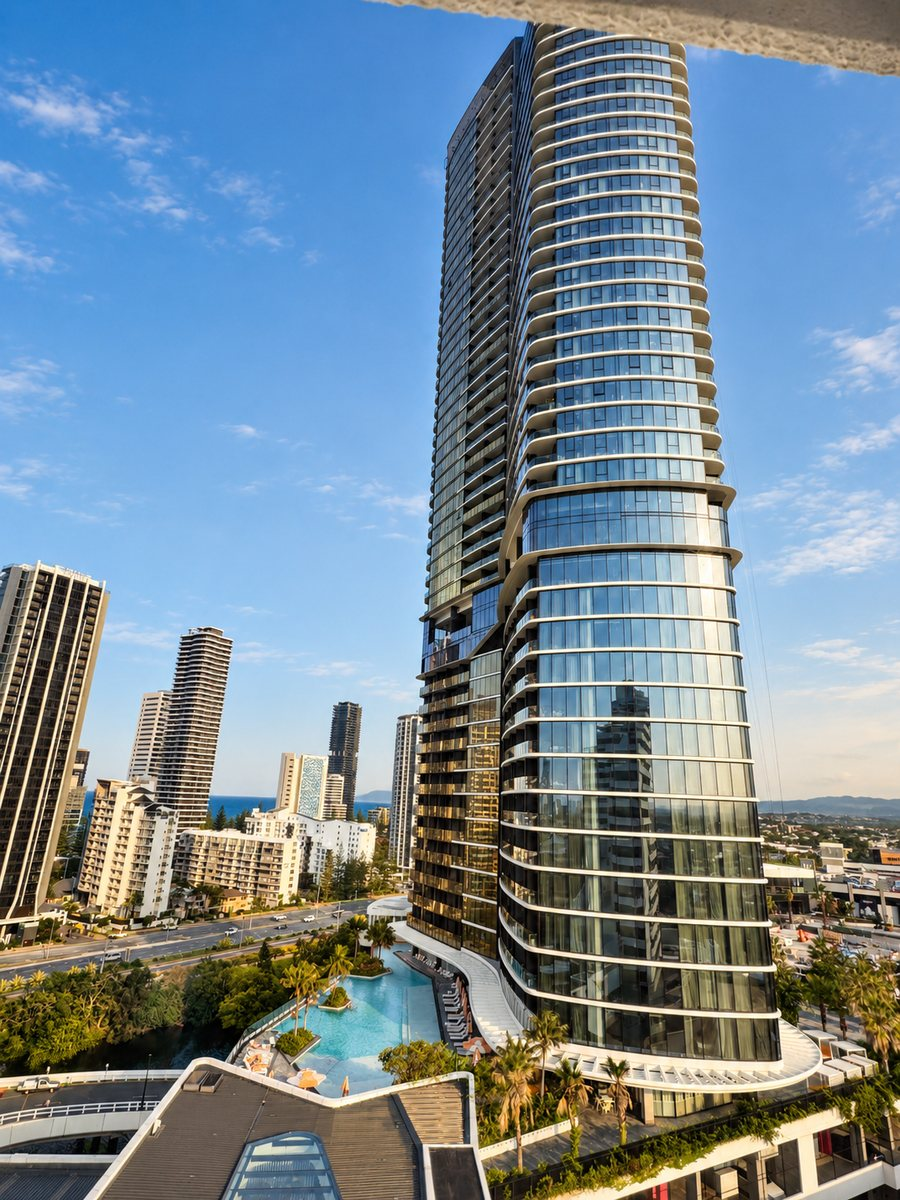
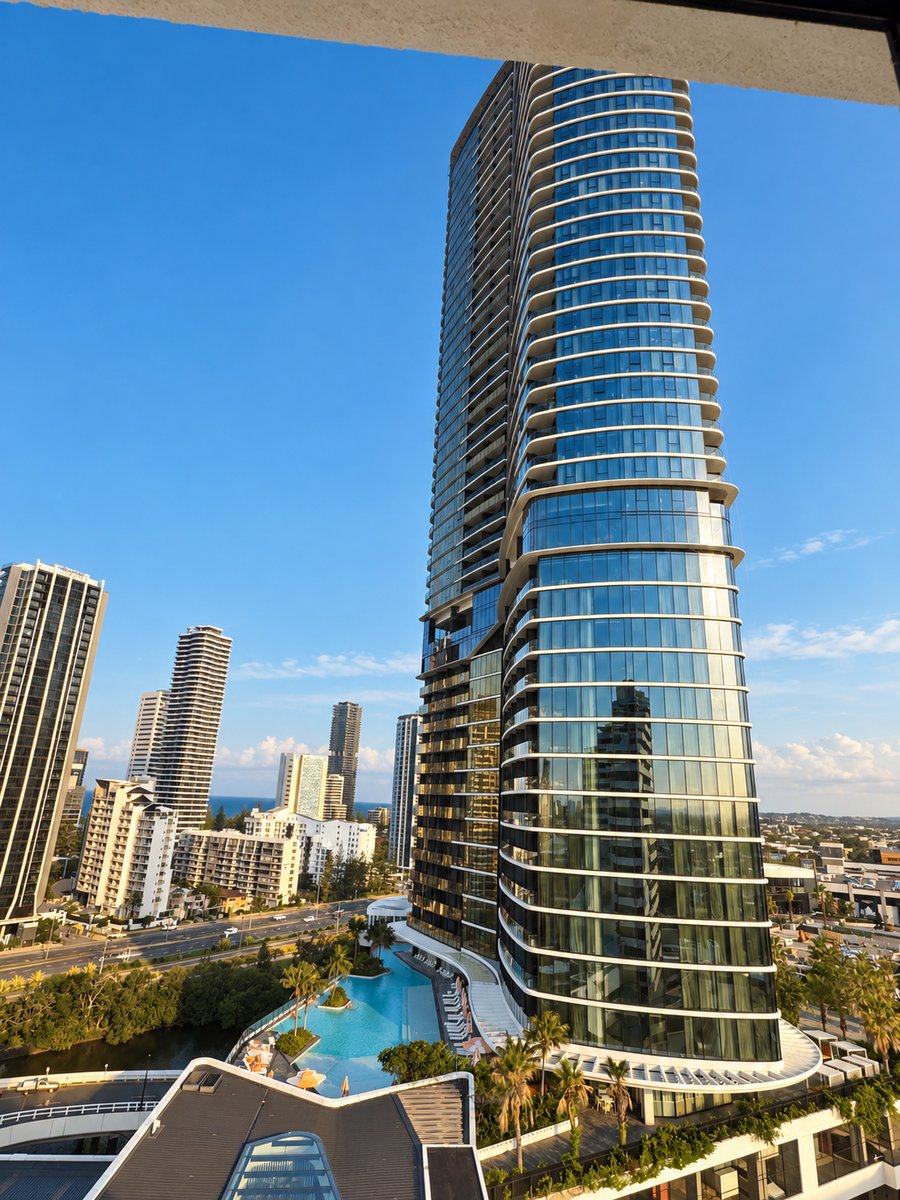
Star Gold Coast: updated photos, ballroom leads

diff --git a/venue-visits/the-star-gold-coast/index.html b/venue-visits/the-star-gold-coast/index.html
@@ -308,7 +308,7 @@
 
   <nav class="vg-crumbs" aria-label="Breadcrumb"><a href="../../index.html">Home</a><span>/</span><a href="../">Venue visits</a><span>/</span><a href="../../venue-finder-gold-coast.html">Gold Coast</a><span>/</span>The Star Gold Coast</nav>
 
-  <div class="vg-gal"><button type="button" data-lb="1" data-src="../../assets/img/venue-visits/the-star-gold-coast/3-w900.jpg" aria-label="Enlarge photograph"><img src="../../assets/img/venue-visits/the-star-gold-coast/3-w900.jpg" alt="The Star Gold Coast" width="900" height="675" loading="eager" decoding="async"></button><button type="button" data-lb="1" data-src="../../assets/img/venue-visits/the-star-gold-coast/6-w900.jpg" aria-label="Enlarge photograph"><img src="../../assets/img/venue-visits/the-star-gold-coast/6-w900.jpg" alt="The Star Gold Coast" width="900" height="675" loading="lazy" decoding="async"></button><button type="button" data-lb="1" data-src="../../assets/img/venue-visits/the-star-gold-coast/5-w900.jpg" aria-label="Open the gallery, 8 photographs"><img src="../../assets/img/venue-visits/the-star-gold-coast/5-w900.jpg" alt="The Star Gold Coast" width="900" height="1200" loading="lazy" decoding="async"><span class="vg-more"><i><svg viewBox="0 0 24 24" width="19" height="19" fill="none" stroke="currentColor" stroke-width="1.7" stroke-linecap="round" stroke-linejoin="round" aria-hidden="true"><path d="M3 8.6A1.6 1.6 0 0 1 4.6 7h2.1a1 1 0 0 0 .83-.45l.93-1.4A1 1 0 0 1 9.3 4.7h5.4a1 1 0 0 1 .84.45l.93 1.4A1 1 0 0 0 17.3 7h2.1A1.6 1.6 0 0 1 21 8.6v8.8A1.6 1.6 0 0 1 19.4 19H4.6A1.6 1.6 0 0 1 3 17.4z"/><circle cx="12" cy="12.7" r="3.5"/></svg>8</i></span></button></div>
+  <div class="vg-gal"><button type="button" data-lb="1" data-src="../../assets/img/venue-visits/the-star-gold-coast/8-w900.jpg" aria-label="Enlarge photograph"><img src="../../assets/img/venue-visits/the-star-gold-coast/8-w900.jpg" alt="The Star Gold Coast" width="900" height="675" loading="eager" decoding="async"></button><button type="button" data-lb="1" data-src="../../assets/img/venue-visits/the-star-gold-coast/6-w900.jpg" aria-label="Enlarge photograph"><img src="../../assets/img/venue-visits/the-star-gold-coast/6-w900.jpg" alt="The Star Gold Coast" width="900" height="1197" loading="lazy" decoding="async"></button><button type="button" data-lb="1" data-src="../../assets/img/venue-visits/the-star-gold-coast/5-w900.jpg" aria-label="Open the gallery, 9 photographs"><img src="../../assets/img/venue-visits/the-star-gold-coast/5-w900.jpg" alt="The Star Gold Coast" width="900" height="1200" loading="lazy" decoding="async"><span class="vg-more"><i><svg viewBox="0 0 24 24" width="19" height="19" fill="none" stroke="currentColor" stroke-width="1.7" stroke-linecap="round" stroke-linejoin="round" aria-hidden="true"><path d="M3 8.6A1.6 1.6 0 0 1 4.6 7h2.1a1 1 0 0 0 .83-.45l.93-1.4A1 1 0 0 1 9.3 4.7h5.4a1 1 0 0 1 .84.45l.93 1.4A1 1 0 0 0 17.3 7h2.1A1.6 1.6 0 0 1 21 8.6v8.8A1.6 1.6 0 0 1 19.4 19H4.6A1.6 1.6 0 0 1 3 17.4z"/><circle cx="12" cy="12.7" r="3.5"/></svg>9</i></span></button></div>
 
   <div class="vg-body">
   <div>
@@ -357,8 +357,9 @@
       <h2>The event floor</h2>
       <p>The Event Centre and the smaller function rooms. The Star publishes the totals but no room by room chart, so the shapes below are what there is to go on.</p>
       <ul class="vg-shots">
+<li><button type="button" data-lb="1" data-src="../../assets/img/venue-visits/the-star-gold-coast/8-w900.jpg" aria-label="Enlarge photograph"><img src="../../assets/img/venue-visits/the-star-gold-coast/8-w900.jpg" alt="The Star Gold Coast" width="900" height="675" loading="lazy" decoding="async"></button></li>
 <li><button type="button" data-lb="1" data-src="../../assets/img/venue-visits/the-star-gold-coast/3-w900.jpg" aria-label="Enlarge photograph"><img src="../../assets/img/venue-visits/the-star-gold-coast/3-w900.jpg" alt="The Star Gold Coast" width="900" height="675" loading="lazy" decoding="async"></button></li>
-<li><button type="button" data-lb="1" data-src="../../assets/img/venue-visits/the-star-gold-coast/6-w900.jpg" aria-label="Enlarge photograph"><img src="../../assets/img/venue-visits/the-star-gold-coast/6-w900.jpg" alt="The Star Gold Coast" width="900" height="675" loading="lazy" decoding="async"></button></li>
+<li><button type="button" data-lb="1" data-src="../../assets/img/venue-visits/the-star-gold-coast/6-w900.jpg" aria-label="Enlarge photograph"><img src="../../assets/img/venue-visits/the-star-gold-coast/6-w900.jpg" alt="The Star Gold Coast" width="900" height="1197" loading="lazy" decoding="async"></button></li>
 <li><button type="button" data-lb="1" data-src="../../assets/img/venue-visits/the-star-gold-coast/5-w900.jpg" aria-label="Enlarge photograph"><img src="../../assets/img/venue-visits/the-star-gold-coast/5-w900.jpg" alt="The Star Gold Coast" width="900" height="1200" loading="lazy" decoding="async"></button></li>
 <li><button type="button" data-lb="1" data-src="../../assets/img/venue-visits/the-star-gold-coast/2-w900.jpg" aria-label="Enlarge photograph"><img src="../../assets/img/venue-visits/the-star-gold-coast/2-w900.jpg" alt="The Star Gold Coast" width="900" height="675" loading="lazy" decoding="async"></button></li>
       </ul>
@@ -378,7 +379,7 @@
 <div class="vg-fact"><dt>Rate bands</dt><dd class="na">Not published</dd></div>
       </div>
       <ul class="vg-shots">
-<li><button type="button" data-lb="1" data-src="../../assets/img/venue-visits/the-star-gold-coast/1-w900.jpg" aria-label="Enlarge photograph"><img src="../../assets/img/venue-visits/the-star-gold-coast/1-w900.jpg" alt="The Star Gold Coast" width="900" height="1200" loading="lazy" decoding="async"></button></li>
+<li><button type="button" data-lb="1" data-src="../../assets/img/venue-visits/the-star-gold-coast/1-w900.jpg" aria-label="Enlarge photograph"><img src="../../assets/img/venue-visits/the-star-gold-coast/1-w900.jpg" alt="The Star Gold Coast" width="900" height="675" loading="lazy" decoding="async"></button></li>
       </ul>
       <p class="vg-foot">If you need the beds without the ballroom, that is a normal brief and we run it on its own. See <a href="../../group-accommodation.html">group accommodation</a> for how a room block is held, and <a href="../../corporate-accommodation.html">corporate accommodation</a> for an ongoing rate program.</p>
     </section>

diff --git a/venue-visits/index.html b/venue-visits/index.html
@@ -420,7 +420,7 @@ html{scroll-padding-top:150px}
     <div class="vh-cityblock" id="gold-coast">
     <div class="section-head"><h2 class="h2 vh-city">Gold Coast</h2></div>
     <ul class="vh-grid" style="margin-bottom:2.8rem">
-<li class="vh-card"><a class="vh-card__hit" href="the-star-gold-coast/"><span class="vh-card__img"><img src="../assets/img/venue-visits/the-star-gold-coast/3-w900.jpg" alt="The Star Gold Coast, an event space set with round tables" width="900" height="675" loading="lazy" decoding="async"></span><span class="vh-card__body"><b>The Star Gold Coast</b><span class="vh-card__meta">Resort · Broadbeach</span><span class="vh-card__stats"><span><b>2,300</b>theatre</span><span><b>1,200</b>gala</span><span><b>4,000</b>sqm</span></span><span class="vh-card__line">More than 4,000 sqm of event space at Broadbeach with more than 1,000 rooms above it. The Star publishes the totals and no room by room chart.</span><span class="vh-card__seen">Inspected by CVBS</span></span></a><span class="vh-card__act"><a class="btn btn--teal btn--sm" href="../submit-a-brief.html?dest=Gold Coast&amp;venue=The%20Star%20Gold%20Coast">Ask About This Venue</a></span></li>
+<li class="vh-card"><a class="vh-card__hit" href="the-star-gold-coast/"><span class="vh-card__img"><img src="../assets/img/venue-visits/the-star-gold-coast/8-w900.jpg" alt="The Star Gold Coast, an event space set with round tables" width="900" height="675" loading="lazy" decoding="async"></span><span class="vh-card__body"><b>The Star Gold Coast</b><span class="vh-card__meta">Resort · Broadbeach</span><span class="vh-card__stats"><span><b>2,300</b>theatre</span><span><b>1,200</b>gala</span><span><b>4,000</b>sqm</span></span><span class="vh-card__line">More than 4,000 sqm of event space at Broadbeach with more than 1,000 rooms above it. The Star publishes the totals and no room by room chart.</span><span class="vh-card__seen">Inspected by CVBS</span></span></a><span class="vh-card__act"><a class="btn btn--teal btn--sm" href="../submit-a-brief.html?dest=Gold Coast&amp;venue=The%20Star%20Gold%20Coast">Ask About This Venue</a></span></li>
     </ul>
     </div>
     <div class="vh-cityblock" id="perth">

diff --git a/venue-finder-gold-coast.html b/venue-finder-gold-coast.html
@@ -73,7 +73,7 @@
     <p class="lead">A few of the Gold Coast venues we&rsquo;ve been through ourselves. For each one you&rsquo;ll find the venue&rsquo;s own published capacities, the date we were there, and an honest word about what it suits and what it doesn&rsquo;t.</p></div>
   <ul class="vwalk">
     <li class="vwalk__card"><a href="venue-visits/the-star-gold-coast/">
-      <span class="vwalk__img"><img src="assets/img/venue-visits/the-star-gold-coast/3-w900.jpg" alt="The Star Gold Coast, an event space set with round tables" loading="lazy" decoding="async" width="900" height="675"></span>
+      <span class="vwalk__img"><img src="assets/img/venue-visits/the-star-gold-coast/8-w900.jpg" alt="The Star Gold Coast, an event space set with round tables" loading="lazy" decoding="async" width="900" height="675"></span>
       <span class="vwalk__body">
         <b>The Star Gold Coast</b>
         <span class="vwalk__meta">Resort &middot; 2,300 theatre &middot; More than 1,000 rooms</span>
